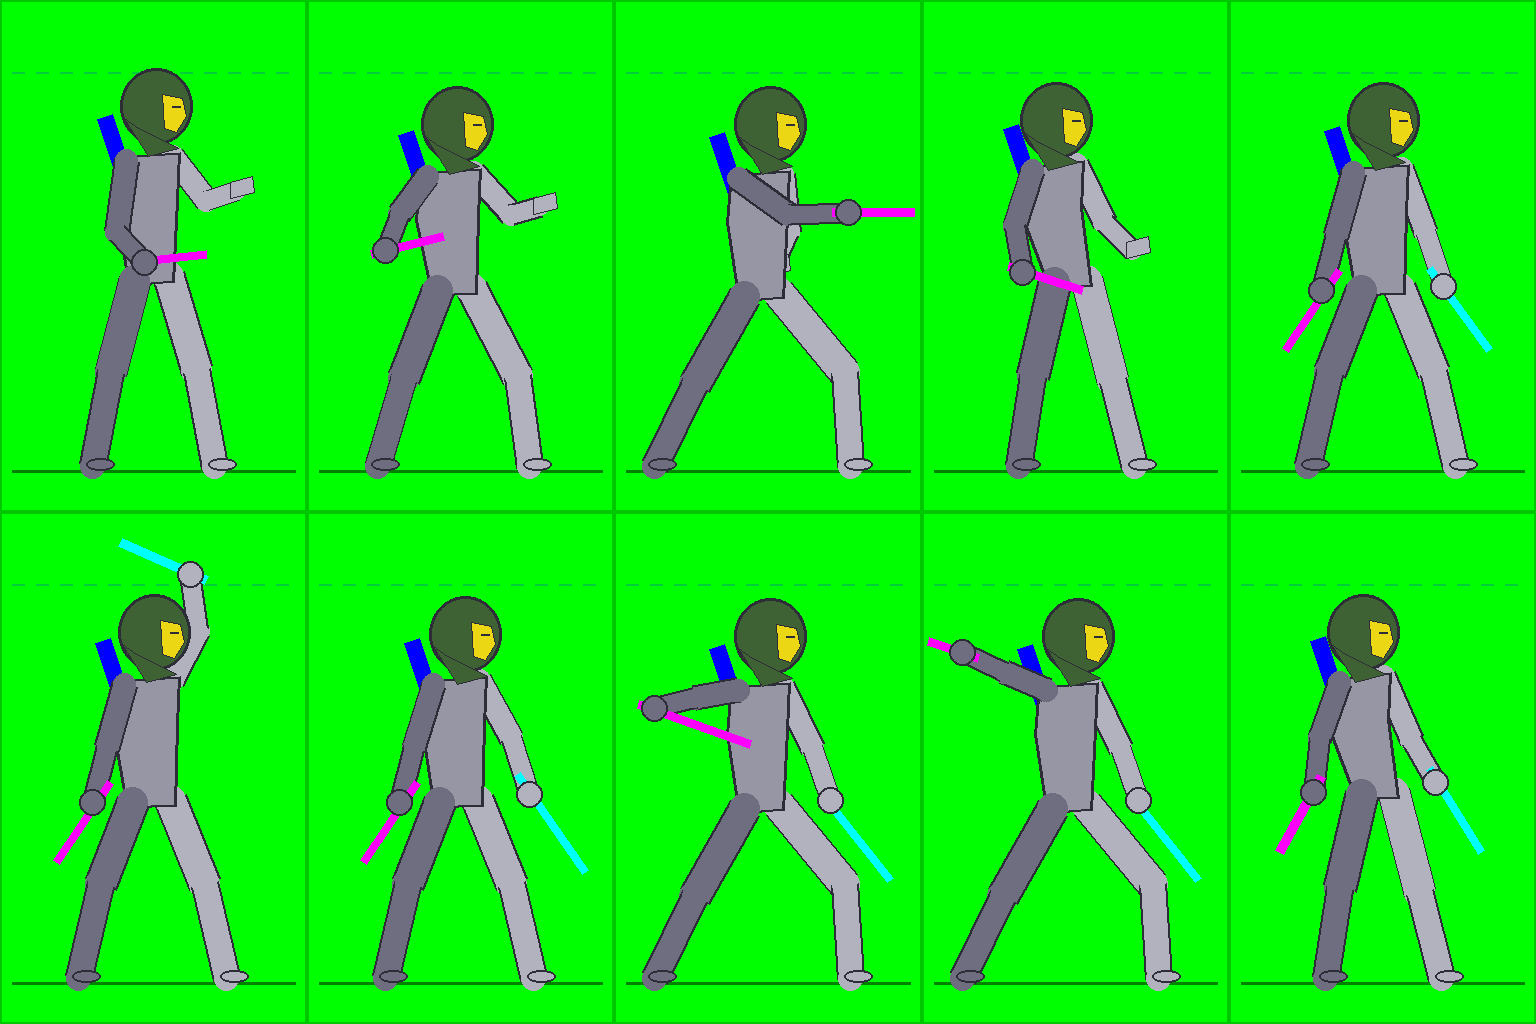
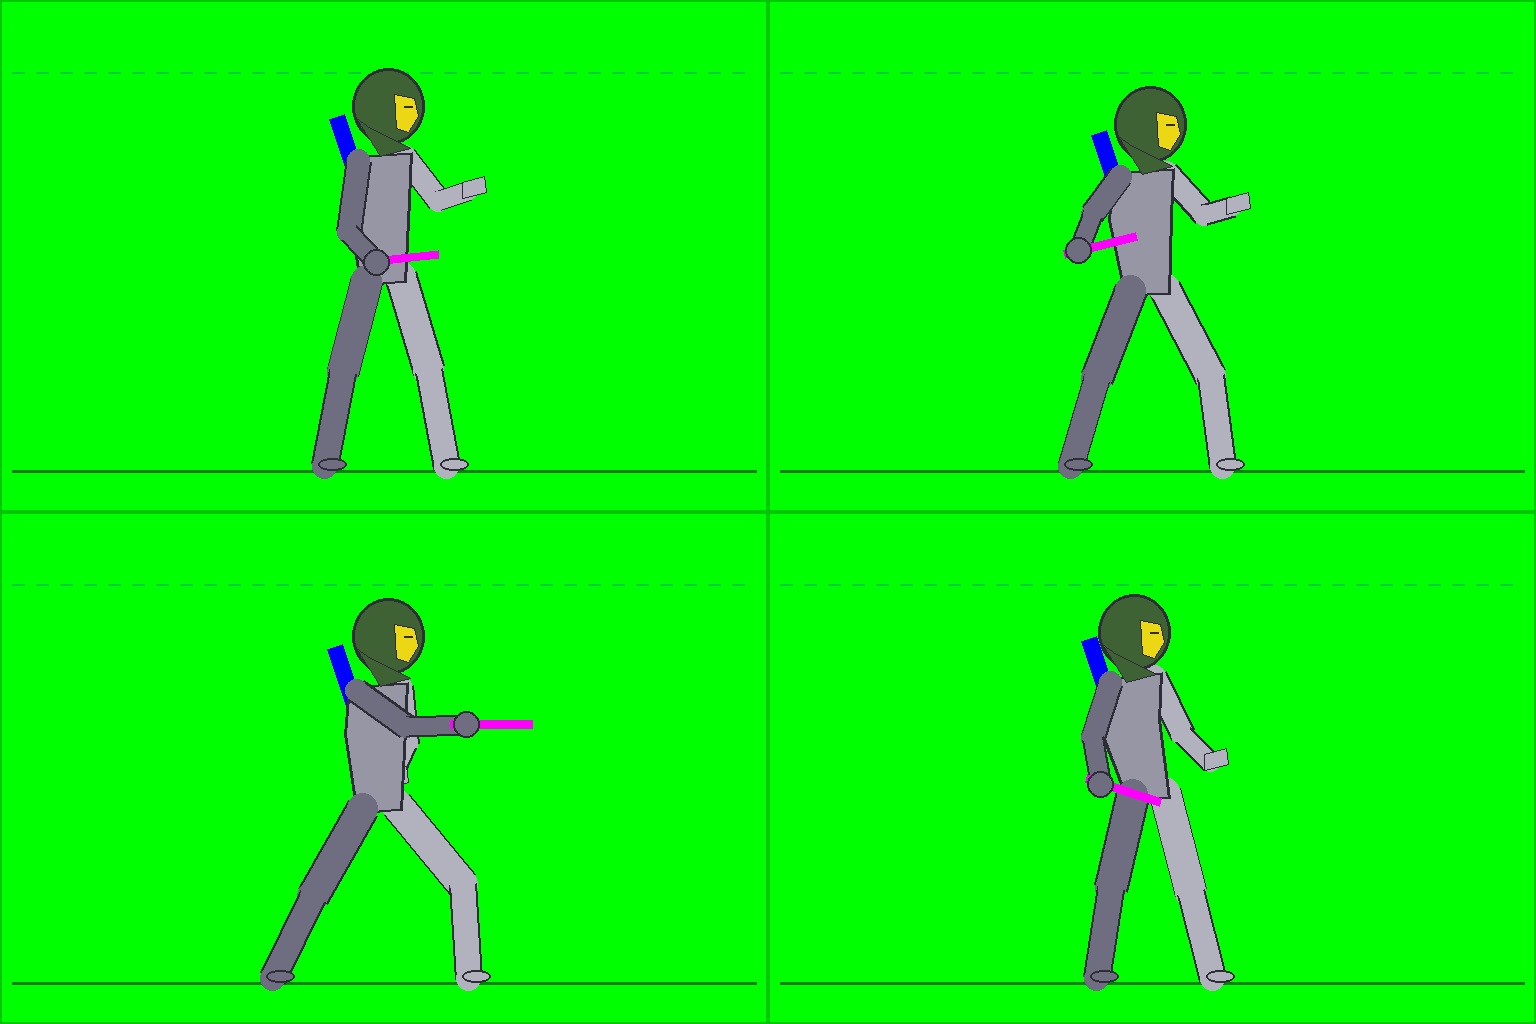
Archer dual daggers = Soldier dual poses (Gemini edit + quiver marker); one dagger own 2x2 sheet
Claude-Session: https://claude.ai/code/session_01M8ejkLTav7LEMdtajuWjkN

diff --git a/art_source/new_art/battle/make_refs.py b/art_source/new_art/battle/make_refs.py
@@ -42,10 +42,10 @@ CLASS_STATES = {'soldier': {'1h': ['stand', 'ready', 'attack', 'hit'], 'dual': [
 # extra sheets per class: name -> rows of (stance, [cell states]). Soldier dual = user's dual-slash concept (2026-11-21):
 # stand, ready (front/cyan arm winds up), slash_left (cyan slashes down), slash_right (magenta sweeps), finish, hit
 EXTRA_SHEETS = {'soldier': {'dual': [('dual', ['stand', 'ready', 'slash_left']), ('dual', ['slash_right', 'finish', 'hit'])]},
-                # (user, 2026-11-25: one ChatGPT task) one dagger (off-hand empty) + dual daggers on ONE 5 x 2 sheet;
-                # a 'mixed' row lists (stance, state) per cell
-                'archer': {'dagger': [('mixed', [('1h', 'stand'), ('1h', 'ready'), ('1h', 'attack'), ('1h', 'hit'), ('dual', 'stand')]),
-                                      ('mixed', [('dual', 'ready'), ('dual', 'slash_left'), ('dual', 'slash_right'), ('dual', 'finish'), ('dual', 'hit')])]}}
+                # (user, 2026-11-25) one dagger: its own 2 x 2 sheet (off-hand empty). Dual daggers = the Soldier's finished
+                # dual poses, re-dressed as the Archer by Gemini with the quiver marker added (archer_dual_<sex>_sheet.png)
+                'archer': {'dagger': [('1h', ['stand', 'ready']), ('1h', ['attack', 'hit'])],
+                           'dual': [('dual', ['stand', 'ready', 'slash_left']), ('dual', ['slash_right', 'finish', 'hit'])]}}
 # older sheets drawn on an earlier layout: (class, sex) -> rows
 SHEET_ROWS = {('soldier', 'm'): [('1h', 'sword_shield'), ('dual', None), ('2h', 'greataxe'), ('reach', 'longspear')],   # v5 male
               ('soldier', 'f'): [('1h', 'sword_shield'), ('dual', None), ('2h', 'greataxe'), ('reach', 'longspear')]}   # Gemini edit of v5 male

diff --git a/art_source/new_art/battle/tools/archer_pose_draft.py b/art_source/new_art/battle/tools/archer_pose_draft.py
@@ -125,13 +125,7 @@ if __name__ == '__main__':
     im = Image.open(os.path.join(HERE, 'templates', 'archer_template.png')).convert('RGB'); d = ImageDraw.Draw(im)
     for (r, c), P in POSES.items(): draw(d, P, c * 384, r * 512)
     im.save(os.path.join(HERE, 'refs', 'archer_pose_draft.png'))
-    # dagger sheet (user, 2026-11-25: one task): 5 x 2 cells of 307 x 512 - one dagger, then dual daggers
-    LAYOUT = {(0, 0): ONE[(0, 0)], (0, 1): ONE[(0, 1)], (0, 2): ONE[(1, 0)], (0, 3): ONE[(1, 1)], (0, 4): DUAL[(0, 0)],
-              (1, 0): DUAL[(0, 1)], (1, 1): DUAL[(0, 2)], (1, 2): DUAL[(1, 0)], (1, 3): DUAL[(1, 1)], (1, 4): DUAL[(1, 2)]}
-    im = Image.open(os.path.join(HERE, 'templates', 'archer_dagger_template.png')).convert('RGB')
-    cw = im.size[0] / 5
-    for (r, c), P in LAYOUT.items():
-        tmp = Image.new('RGBA', (384, 512), (0, 0, 0, 0)); draw(ImageDraw.Draw(tmp), P, 0, 0)
-        tmp = tmp.crop((40, 0, 40 + round(cw), 512))         # poses are centred at x~192 of 384; the cell is ~307 wide
-        im.paste(tmp.convert('RGB'), (round(c * cw), r * 512), tmp.getchannel('A').point(lambda v: 255 if v > 110 else 0))
+    # one-dagger sheet (2 x 2 cells of 768 x 512); dual daggers come from the Soldier dual sheet (Gemini edit)
+    im = Image.open(os.path.join(HERE, 'templates', 'archer_dagger_template.png')).convert('RGB'); d = ImageDraw.Draw(im)
+    for (r, c), P in ONE.items(): draw(d, P, c * 768 + 192, r * 512)
     out = os.path.join(HERE, 'refs', 'archer_dagger_pose_draft.png'); im.save(out); print(out)

diff --git a/docs/design-decisions.md b/docs/design-decisions.md
@@ -30,7 +30,7 @@ Archer and Mage melee weapons limited to **light** weapons on 2026-11-16 (user: 
 
 **Shields (user, 2026-11-20): each class has its own shield shape** — Soldier = **square** shield, Acolyte and Warrior = **round** shield (the Warrior could not use shields before; this adds it), **kite shield = reserved for a future Knight class**. A one-handed weapon **without** a shield uses the **dual-weapon stance** (left hand empty) in battle sprites. **The shield look is fixed per class** (user, 2026-11-20): shield equipment comes in broad categories (**light shield, heavy shield, tower shield**) that change the rules only; the sprite and the shield stance always show the class's own shield. Shield categories are not in the weapon sheet yet. **Headgear (user, 2026-11-20): battle sprites wear class headgear, portraits never do.** It is drawn into the sprite body by ChatGPT, so battle sprites have **no hair layer** (the portrait-hair sample is dropped for helmeted classes, `HEADGEAR` in `process_battle.py`). **Soldier final design** (`source/concepts/soldier_final_design.png`): plain open-face **barbute helm** (no crest, gold or emblem), simple silver plate armour, blue scarf and tabard, brown leather belt and gloves; the face is the only skin (yellow key). Soldier v3 prompt in `PROMPTS.md` (4 rows: square shield, dual, two-handed, spear), ~6 heads tall including the helmet. Helmet variations and faction colours on that sheet are not used. **Hair under the helmet (user, 2026-11-20):** ChatGPT draws a long-hair ponytail behind the neck in shades of **pure red** (never covering the body); `process_battle.py` cuts it into a hair value-map layer tinted with the hero's hair ramp and shows it **only for long portrait hairstyles** (`art_source/new_art/battle/hair_length.json`: male ponytail, long, wild_mane; female long, ponytail, braids, wavy, side_braid, curly_mane, warrior_halfup; buns/topknots/crown braids count as short). Both sexes get the piece. **Four sprites per stance (user, 2026-11-20, extends the three-sprite rule):** STAND | **READY** (the wind-up a moment before the attack) | ATTACK | GET HIT; the **dual row** is STAND | **ATTACK 1 (main hand)** | **ATTACK 2 (off-hand)** | GET HIT, because dual wield hits twice. Playback: stand → ready → attack → stand (dual: stand → attack 1 → attack 2 → stand); one weapon in the dual stance uses only attack 1. Soldier template is now 4 × 4 (`make_refs.py` `CLASS_STATES`), prompt v5 in `PROMPTS.md`. **Hand convention (corrected 2026-11-20):** in right-facing sprites the character's **LEFT arm is the lead arm** (right side of the picture, the shield arm) and the **RIGHT arm is the rear arm**; magenta (main weapon) is always in the right/rear hand, cyan in the left/lead hand, and the main-hand attack swings the rear arm forward across the body. An earlier prompt rule ("right hand leading on the right of the picture") was wrong and made ChatGPT draw both dual attacks with the left arm; the v5 male sheet's dual stand/hit are swapped back in code (`SWAP_HANDS`) and its ATTACK 1 needs the edit prompt in `PROMPTS.md`. **Dual weapons get their own sheet (user's dual-slash concept, 2026-11-21):** stand → ready (front/cyan arm winds up) → slash 1 (cyan chops down) → slash 2 (magenta sweeps across) → finish (magenta follow-through) → plus get hit; template `soldier_dual_template.png` (2 × 3), prompt names the arms only by rod colour (front arm = cyan, back arm = magenta), never left/right. Main Soldier sheet is now 3 rows × 4 (shield, two-handed, spear). One weapon without shield plays stand → slash 2 → finish from the magenta hand. The off-hand (cyan) hit shows first, the main hand second. **Slash waves (user, 2026-11-21):** in slash 1 the cyan weapon is hidden behind a slash wave (a chop arc from overhead down to the front foot), in slash 2 the magenta weapon is hidden behind a waist-level sweep wave; both weapons show again in finish (`SLASH_HIDE` / `slash_wave()` in `process_battle.py`). **Male dual sheet hand-fixed (2026-11-21):** ChatGPT kept putting the cyan rod on the near arm in slash 1 and swinging the main arm forward in slash 2 / finish, so those cells were rebuilt in code from the sheet's own parts (raw sheet in `source/concepts/soldier_dual_m_gpt_raw.png`); the near arm (big pauldron over the chest, left of the picture) always holds magenta. `SWAP_HANDS` is now empty. **Slash frames = drawn arc + weapon smear (user, 2026-11-21):** the user drew slash 1 and slash 2 in Gemini with a yellow slash arc and a grey **weapon smear** that does not show which weapon was swung (any one-handed weapon fits; a code-drawn motion-blurred sword was rejected as bad design and removed). Gemini then put them into the dual sheet (`source/concepts/soldier_dual_<sex>_sheet_gemini_smear.png`); `tools/green_fx_split.py` lifts the arc and smear off the green into a soft-alpha effect layer (`source/soldier_dual_<sex>_fx.png`) so their yellow never reaches the skin key, and fills the body hidden under the waist sweep. In those frames the swinging hand's weapon is not drawn (the smear stands for it); the other hand's weapon is drawn as usual; fists hidden under the smear are given in `source/soldier_dual_<sex>_grips.json`. `slash_wave()` in code remains the fallback for sheets without a drawn effect. **Female Soldier done (2026-11-21):** both female sheets are Gemini edits of the finished male sheets (main 4 × 4 v5 layout, `SHEET_ROWS` for both sexes; dual with the drawn effects); edit-the-finished-sheet is the method that avoided the arm/hand mistakes. **Metallic armour (user, 2026-11-21):** the AI sheets shade the Soldier's plate with a rosy tint, which read as red armour; `process_battle.py` `to_steel()` (classes in `METAL_ARMOUR`) turns rosy greys into cool steel of the same brightness and the maroon padding between plates into dark steel mail, leaving blue cloth, brown leather, gold trim, hair and skin alone. Applies to every Soldier layer, both sexes. **Downed sprite (user, 2026-11-24):** one downed pose per sex shared by every Soldier loadout (kneeling on both knees, head hanging, empty hands on the ground; no weapon or shield). ChatGPT drew it on `templates/soldier_downed_template.png` (the finished stand figures in the bottom row as reference); `process_battle.py` `process_downed()` scales it from those stand figures and writes `sprites/soldier_<sex>_<loadout>_downed.png` for every loadout. The game export still shows downed as the greyed hit frame until it picks up the new `downed` state. **Dual row:** the first helmet sheets drew the dual stand facing the viewer and the attack side-on, so the weapon seemed to change hands; the Soldier v4 prompt keeps the right hand leading on the right of the figure in all three poses.
 
-**Archer battle sprites (2026-11-24/25):** design sheet by ChatGPT (`source/concepts/archer_design.png`), **hood up** (user's headgear choice), so the hood hides the hair (no hair key) and the face is the only skin. Poses come from **mannequin pose drafts drawn in code** (`tools/archer_pose_draft.py`, `refs/archer_*pose_draft.png`): NEAR arm darker in front, FAR arm lighter behind, sticks in the right hands. Two sheets: **main = bow + crossbow, done** (`source/archer_m_sheet.png`, ChatGPT from the 2 × 4 pose draft, 2026-11-25): bow row stand | nock | release | hit (bow = cyan stick in the far hand, arrow = magenta line), crossbow row stand | aim | release | hit (one magenta stock in both fists). **Dagger sheet** (one ChatGPT task, 5 × 2, `EXTRA_SHEETS['archer']['dagger']`, 'mixed' rows): one dagger stand | ready | attack | hit (off-hand open and empty; user, 2026-11-25 - for the Archer this replaces the one-weapon-uses-the-dual-stance rule) + dual daggers stand | ready | slash 1 | slash 2 | finish | hit. Not yet built into sprites: `process_battle.py` needs Archer loadouts (bow as a cyan stick, a code-drawn crossbow, the blue quiver marker cut out and replaced by the quiver layer). Male first by ChatGPT, female as Gemini edits of the finished male sheets.
+**Archer battle sprites (2026-11-24/25):** design sheet by ChatGPT (`source/concepts/archer_design.png`), **hood up** (user's headgear choice), so the hood hides the hair (no hair key) and the face is the only skin. Poses come from **mannequin pose drafts drawn in code** (`tools/archer_pose_draft.py`, `refs/archer_*pose_draft.png`): NEAR arm darker in front, FAR arm lighter behind, sticks in the right hands. Two sheets: **main = bow + crossbow, done** (`source/archer_m_sheet.png`, ChatGPT from the 2 × 4 pose draft, 2026-11-25): bow row stand | nock | release | hit (bow = cyan stick in the far hand, arrow = magenta line), crossbow row stand | aim | release | hit (one magenta stock in both fists). **One dagger** = its own 2 × 2 sheet (stand | ready | attack | hit, off-hand open and empty; user, 2026-11-25 - for the Archer this replaces the one-weapon-uses-the-dual-stance rule). **Dual daggers use the Soldier's dual poses** (user, 2026-11-25): Gemini re-dresses the finished Soldier dual sheet (with its slash arcs and smears) as the Archer and adds the blue back marker, which stands for the quiver **or** the bolt case (same back slot; the game shows whichever ammunition is equipped). Not yet built into sprites: `process_battle.py` needs Archer loadouts (bow as a cyan stick, a code-drawn crossbow, the blue quiver marker cut out and replaced by the quiver layer). Male first by ChatGPT, female as Gemini edits of the finished male sheets.
 
 **Warrior look (user, 2026-11-18): a barbarian, but armored** — can wear up to medium armor, so leather and chain or scale over a barbarian build (furs, leather harness), not the old Brawler's sleeveless tunic. Exact outfit to be drawn with the new art. Legacy battle-sprite and portrait files keep the name `brawler` (they are the old look and reference only).
 

diff --git a/art_source/new_art/battle/PROMPTS.md b/art_source/new_art/battle/PROMPTS.md
@@ -663,3 +663,37 @@ Hard rules:
 ```
 If a few cells come out wrong, fix only those in Gemini: attach the sheet and the pose draft and say "Fix cell
 <row>,<column> of the first image so its pose and sticks match the same cell of the second image. Keep everything else."
+
+### Archer daggers - FINAL plan (user, 2026-11-25: "the dual weapon use the same pose as soldier, but add quiver or bolt")
+Supersedes the 5 x 2 dagger sheet above.
+**Dual daggers** = the Soldier's finished dual sheet re-dressed as the Archer by Gemini, same poses, sticks, slash arcs and
+smears, plus the blue back marker (it stands for the quiver OR the bolt case - both use the same back slot; the game
+shows whichever ammunition is equipped). One Gemini message per sex: attach (1) `source/concepts/soldier_dual_<m|f>_sheet_gemini_smear.png`,
+(2) `source/archer_m_sheet.png` (the finished Archer). Save as `source/concepts/archer_dual_<m|f>_sheet_gemini_smear.png`.
+
+```
+Edit the first attached image, a sprite sheet of 2 rows x 3 cells on a flat green screen: an armoured soldier in six poses, two of them with a yellow slash arc and a grey motion smear. Turn the soldier into the <SEX> ARCHER of the second attached image and change nothing else.
+
+Change only the character:
+- the archer's outfit exactly as in the second image: forest-green hooded cloak with a thin gold trim, HOOD UP over the head with the face open, brown leather vest laced at the front over a white shirt, brass buckles, leather bracers, fingerless brown gloves, brown trousers, laced knee-high boots, a belt with a pouch;
+- no helmet, no plate armour, no scarf or tabard, no red ponytail - no hair visible and no red anywhere;
+- the archer's lighter, leaner build: <BUILD>;
+- add one flat pure BLUE (#0000FF) bar on the back in every cell, like the blue bar in the second image (it marks where the quiver is worn): top end sticking up behind the shoulder on the LEFT side of the picture, slanting down behind the back, partly hidden by the body and cloak; flat colour, no shading, no outline. Do not draw the quiver itself.
+
+Keep exactly as they are:
+- the canvas size, the 2 x 3 grid, the flat pure green background, the dark ground line and the dashed line in each cell;
+- the position, height and feet of every figure;
+- every pose: the same stance, legs, body angle and arm positions in each cell, nothing mirrored;
+- the flat magenta and cyan sticks in the hands: the same stick in the same hand, at the same angle and length, the same flat colours with no shading;
+- the yellow slash arcs and grey smears in the top-right and bottom-left cells: same shape, size, position and colours;
+- the face painted in shades of pure yellow; the pixel-art style, outlines and shading.
+
+No weapons, no bow, no quiver, no new effects, no shadows, no text. Output the whole sheet at the same size.
+```
+`<SEX>` / `<BUILD>`: male = "MALE" / "lean and athletic, like the second image"; female = "FEMALE" / "clearly feminine -
+narrower shoulders, curved waist and hips, slightly fuller chest, a soft face with larger eyes and a small chin".
+
+**One dagger** = its own 2 x 2 ChatGPT sheet (stand | ready / attack | hit, off-hand open and empty). Attach
+(1) `templates/archer_dagger_template.png`, (2) `refs/archer_dagger_pose_draft.png`, (3) `source/archer_m_sheet.png`;
+use the "One-handed sheet" prompt above, with "exactly the archer of the third attached image (same face, outfit,
+colours, size and style)" as the character line and the quiver marker "the same blue bar as in the third image".
